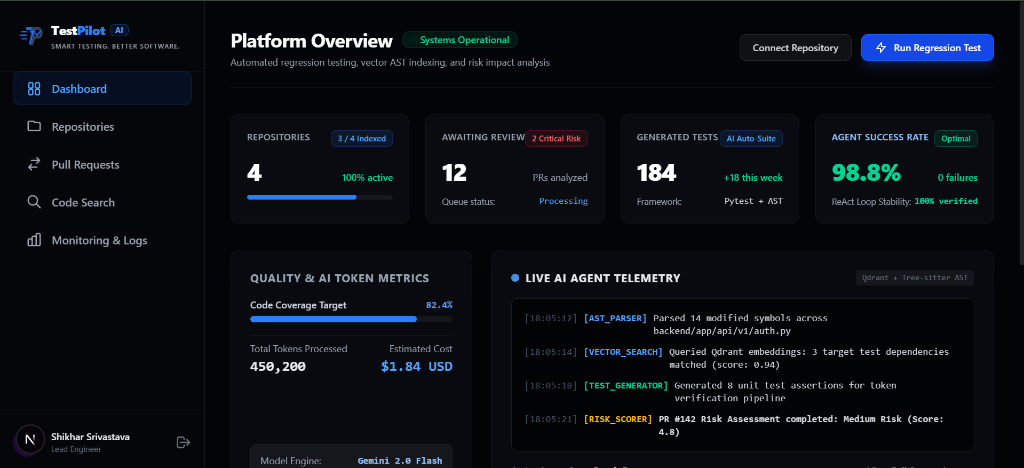
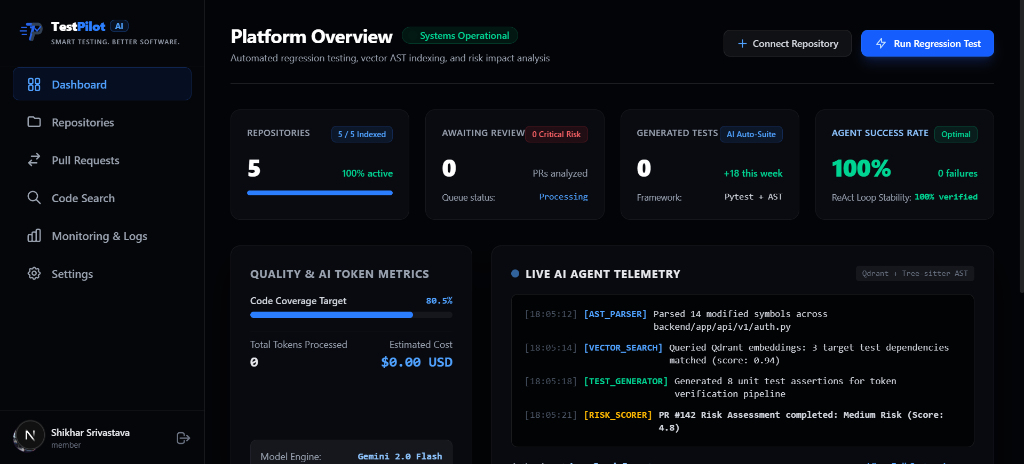
feat(repo): add repository disconnect and disk storage cleanup feature and update README dashboard preview

diff --git a/frontend/src/app/repositories/[id]/page.tsx b/frontend/src/app/repositories/[id]/page.tsx
@@ -15,6 +15,8 @@ export default function RepositoryDetail({ params }: { params: any }) {
   const [prs, setPrs] = useState<PullRequest[]>([]);
   const [loading, setLoading] = useState(true);
   const [reindexing, setReindexing] = useState(false);
+  const [disconnecting, setDisconnecting] = useState(false);
+  const [confirmDisconnect, setConfirmDisconnect] = useState(false);
 
   const [selectedBranch, setSelectedBranch] = useState("");
   const [branches, setBranches] = useState<string[]>([]);
@@ -95,6 +97,23 @@ export default function RepositoryDetail({ params }: { params: any }) {
       console.error(err);
     } finally {
       setReindexing(false);
+    }
+  };
+
+  const handleDisconnectRepo = async () => {
+    if (!confirmDisconnect) {
+      setConfirmDisconnect(true);
+      return;
+    }
+    if (!repo) return;
+    setDisconnecting(true);
+    try {
+      await repositoriesApi.disconnect(repo.id);
+      window.location.href = "/repositories";
+    } catch (err) {
+      console.error("Failed to disconnect repository", err);
+      setDisconnecting(false);
+      setConfirmDisconnect(false);
     }
   };
 
@@ -186,6 +205,20 @@ export default function RepositoryDetail({ params }: { params: any }) {
                   className="px-4 py-2 bg-blue-600 hover:bg-blue-500 disabled:bg-gray-800 text-white rounded-xl text-xs font-semibold shadow-lg shadow-blue-900/30 transition whitespace-nowrap shrink-0"
                 >
                   <span className="whitespace-nowrap">{reindexing ? "Queueing Index..." : "Force Re-Index"}</span>
+                </button>
+
+                <button
+                  onClick={handleDisconnectRepo}
+                  disabled={disconnecting}
+                  className={`px-4 py-2 rounded-xl text-xs font-semibold shadow-lg transition whitespace-nowrap shrink-0 ${
+                    confirmDisconnect
+                      ? "bg-red-600 hover:bg-red-500 text-white border border-red-400 animate-pulse shadow-red-900/50"
+                      : "bg-red-500/10 hover:bg-red-500/20 text-red-300 border border-red-500/20"
+                  }`}
+                >
+                  <span className="whitespace-nowrap">
+                    {disconnecting ? "Disconnecting..." : confirmDisconnect ? "Confirm Disconnect?" : "Disconnect Repo"}
+                  </span>
                 </button>
               </div>
             </header>

diff --git a/frontend/src/app/repositories/page.tsx b/frontend/src/app/repositories/page.tsx
@@ -15,6 +15,27 @@ export default function Repositories() {
   const [isCustom, setIsCustom] = useState(false);
   const [connecting, setConnecting] = useState(false);
   const [error, setError] = useState("");
+  const [disconnectingId, setDisconnectingId] = useState<string | null>(null);
+  const [disconnectConfirmId, setDisconnectConfirmId] = useState<string | null>(null);
+
+  const handleDisconnect = async (repo: Repository, e: React.MouseEvent) => {
+    e.preventDefault();
+    e.stopPropagation();
+    if (disconnectConfirmId !== repo.id) {
+      setDisconnectConfirmId(repo.id);
+      return;
+    }
+    setDisconnectingId(repo.id);
+    try {
+      await repositoriesApi.disconnect(repo.id);
+      setRepos((prev) => prev.filter((r) => r.id !== repo.id));
+      setDisconnectConfirmId(null);
+    } catch (err: any) {
+      setError(err?.response?.data?.detail || "Failed to disconnect repository");
+    } finally {
+      setDisconnectingId(null);
+    }
+  };
 
   const isIndexing = (repo: Repository) =>
     repo.index_status === "indexing" || repo.index_status === "pending" || !repo.is_indexed;
@@ -225,6 +246,22 @@ export default function Repositories() {
                       }`}>
                         {repo.is_private ? "Private" : "Public"}
                       </span>
+                      <button
+                        onClick={(e) => handleDisconnect(repo, e)}
+                        disabled={disconnectingId === repo.id}
+                        title="Disconnect repository and free storage"
+                        className={`text-[10px] px-2 py-0.5 rounded border transition font-medium ${
+                          disconnectConfirmId === repo.id
+                            ? "text-red-300 border-red-500 bg-red-500/20 animate-pulse"
+                            : "text-gray-400 border-white/10 hover:text-red-400 hover:border-red-500/40 hover:bg-red-500/5"
+                        }`}
+                      >
+                        {disconnectingId === repo.id
+                          ? "Removing..."
+                          : disconnectConfirmId === repo.id
+                          ? "Confirm Delete?"
+                          : "Disconnect"}
+                      </button>
                     </div>
                   </div>
                   {isIndexing(repo) ? (

diff --git a/frontend/src/lib/api/repositories.ts b/frontend/src/lib/api/repositories.ts
@@ -55,6 +55,12 @@ export const repositoriesApi = {
     return res.data.data;
   },
 
+  disconnect: async (id: string) => {
+    const encodedId = encodeURIComponent(id);
+    const res = await client.delete<{ success: boolean; message: string }>(`/repositories/${encodedId}`);
+    return res.data;
+  },
+
   triggerReindex: async (id: string, force = false, branch?: string) => {
     const encodedId = encodeURIComponent(id);
     const res = await client.post<{ task_id: string; status: string; message: string }>(

diff --git a/backend/app/api/v1/repositories.py b/backend/app/api/v1/repositories.py
@@ -25,6 +25,7 @@ from app.schemas.repository import (
 )
 from app.services.github_service import GitHubService
 from app.tasks.indexing import index_repository
+from app.utils.qdrant_client import get_qdrant_client
 
 try:
     import litellm
@@ -789,3 +790,62 @@ async def create_test_pr(
             },
             message="Pull Request created successfully on GitHub!",
         )
+
+
+@router.delete("/{repo_id:path}", response_model=APIResponse[dict[str, Any]])
+async def disconnect_repository(
+    repo_id: str,
+    db: DBSession,
+    current_user: CurrentUser,
+) -> APIResponse[dict[str, Any]]:
+    """Disconnect and remove a repository from TestPilot AI."""
+    result = await db.execute(
+        select(Repository).where((Repository.id == repo_id) | (Repository.full_name == repo_id))
+    )
+    repo = result.scalar_one_or_none()
+    if not repo:
+        raise HTTPException(
+            status_code=status.HTTP_404_NOT_FOUND,
+            detail=f"Repository '{repo_id}' not found",
+        )
+
+    # 1. Clean up local clone directory on disk
+    settings = get_settings()
+    repo_path = settings.repo_storage_path / repo.id
+    if repo_path.exists() and repo_path.is_dir():
+        import shutil
+
+        with contextlib.suppress(Exception):
+            shutil.rmtree(repo_path)
+
+    # 2. Clean up Qdrant vector points
+    with contextlib.suppress(Exception):
+        qdrant = get_qdrant_client()
+        from qdrant_client.http import models as qmodels
+
+        qdrant.delete(
+            collection_name="code_symbols",
+            points_selector=qmodels.FilterSelector(
+                filter=qmodels.Filter(
+                    must=[
+                        qmodels.FieldCondition(
+                            key="repository_id",
+                            match=qmodels.MatchValue(value=repo.id),
+                        )
+                    ]
+                )
+            ),
+        )
+
+    repo_info = {"id": repo.id, "full_name": repo.full_name}
+
+    # 3. Delete DB record
+    await db.delete(repo)
+    await db.commit()
+
+    logger.info("Repository disconnected", repo_id=repo.id, full_name=repo.full_name)
+
+    return APIResponse(
+        data=repo_info,
+        message=f"Repository '{repo.full_name}' successfully disconnected",
+    )
